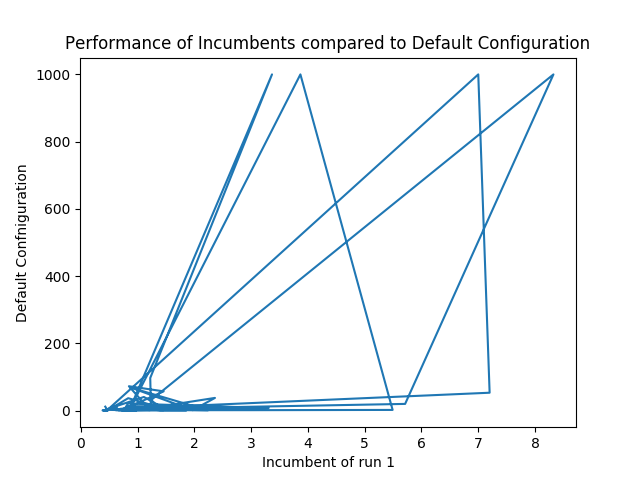
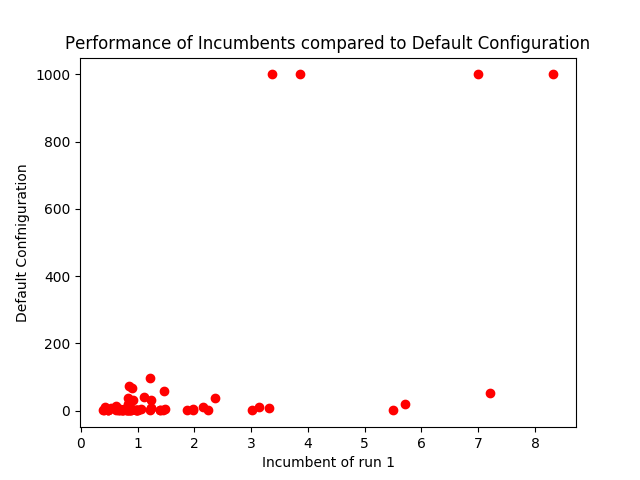
Added validation run plot

diff --git a/Exercise2/lpg_depots/validate/plot_validation_1.py b/Exercise2/lpg_depots/validate/plot_validation_1.py
@@ -28,10 +28,10 @@ def main():
             cost_default.append(z_)
         else:
             cost_incumbent.append(z_)
-    plt.plot(cost_incumbent,cost_default)
+    plt.plot(cost_incumbent,cost_default,'ro')
 
     x = numpy.linspace(0,max(max(cost_incumbent),max(cost_default)),0.1)
-    plt.plot(x,x,'k')
+    plt.plot(x,x,'k',color="red")
     plt.ylabel("Default Confniguration")
     plt.xlabel("Incumbent of run 1")
     plt.title("Performance of Incumbents compared to Default Configuration")
